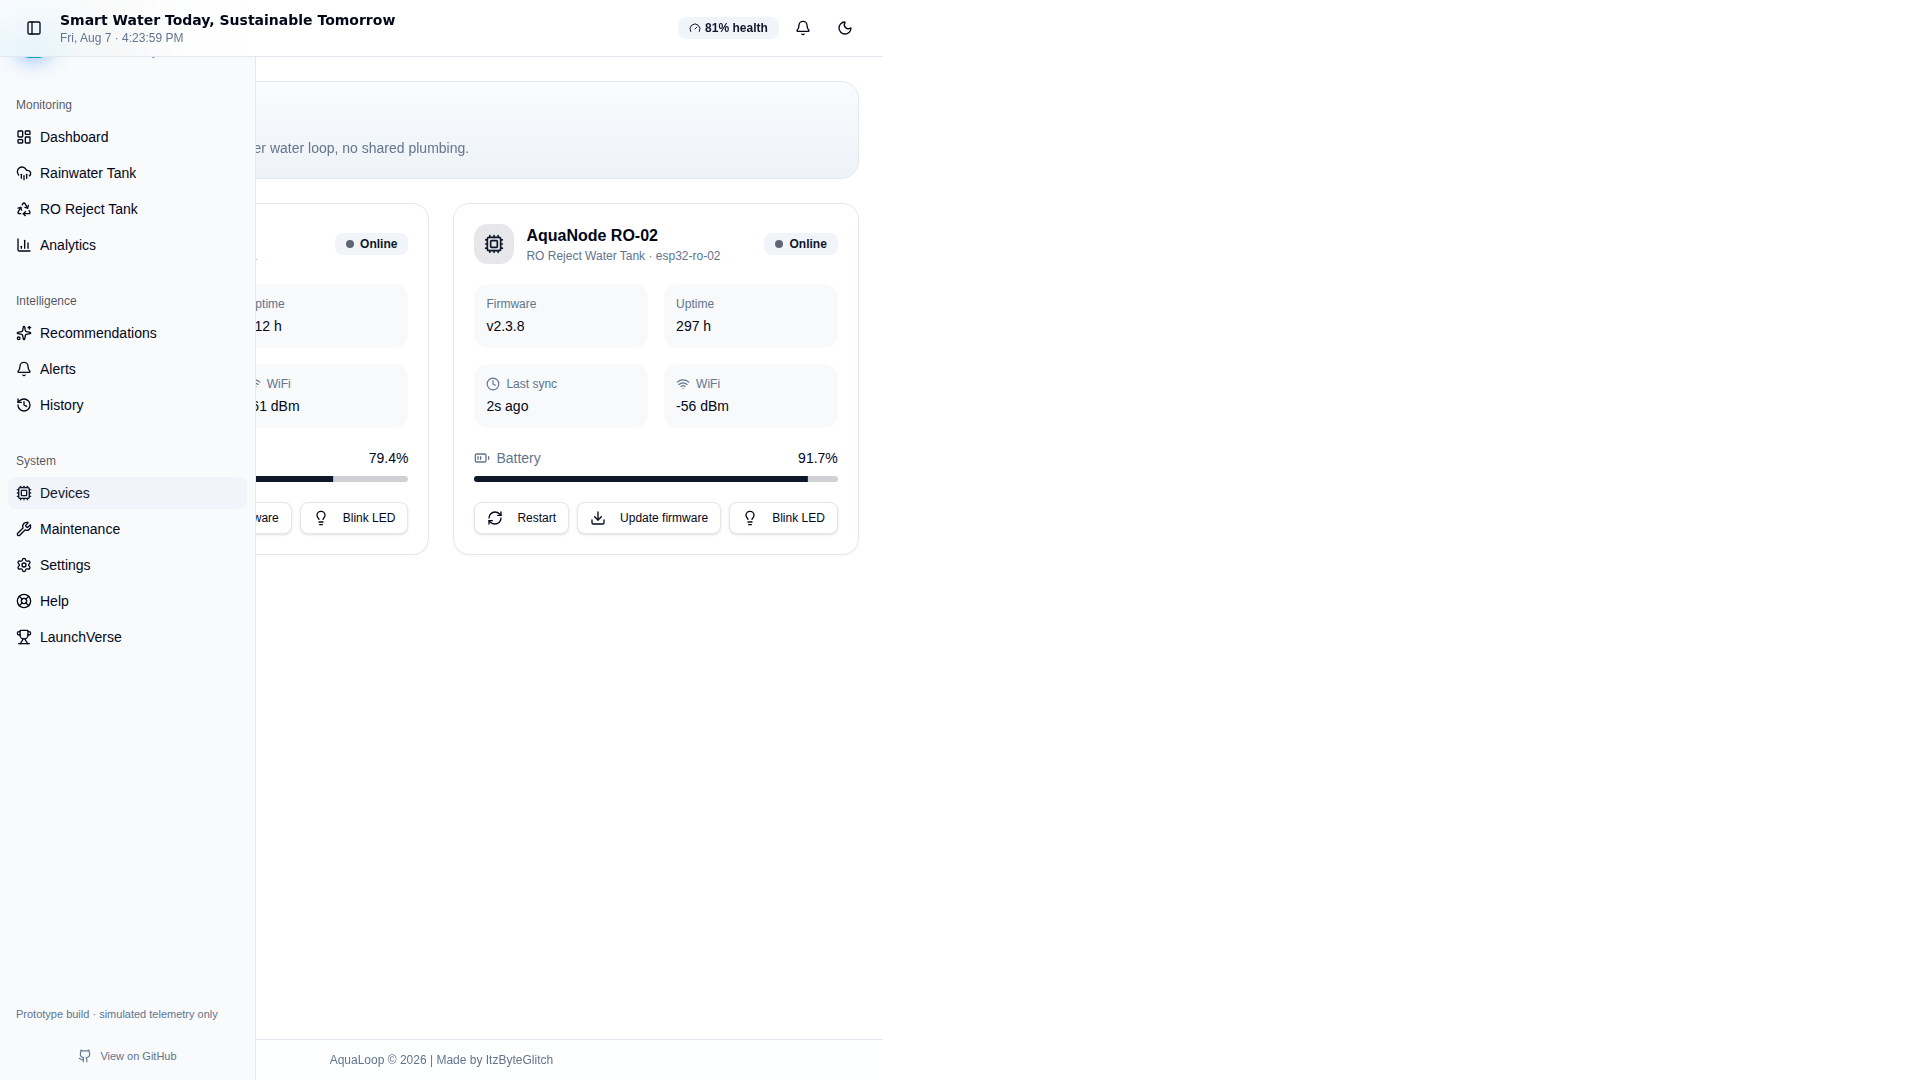
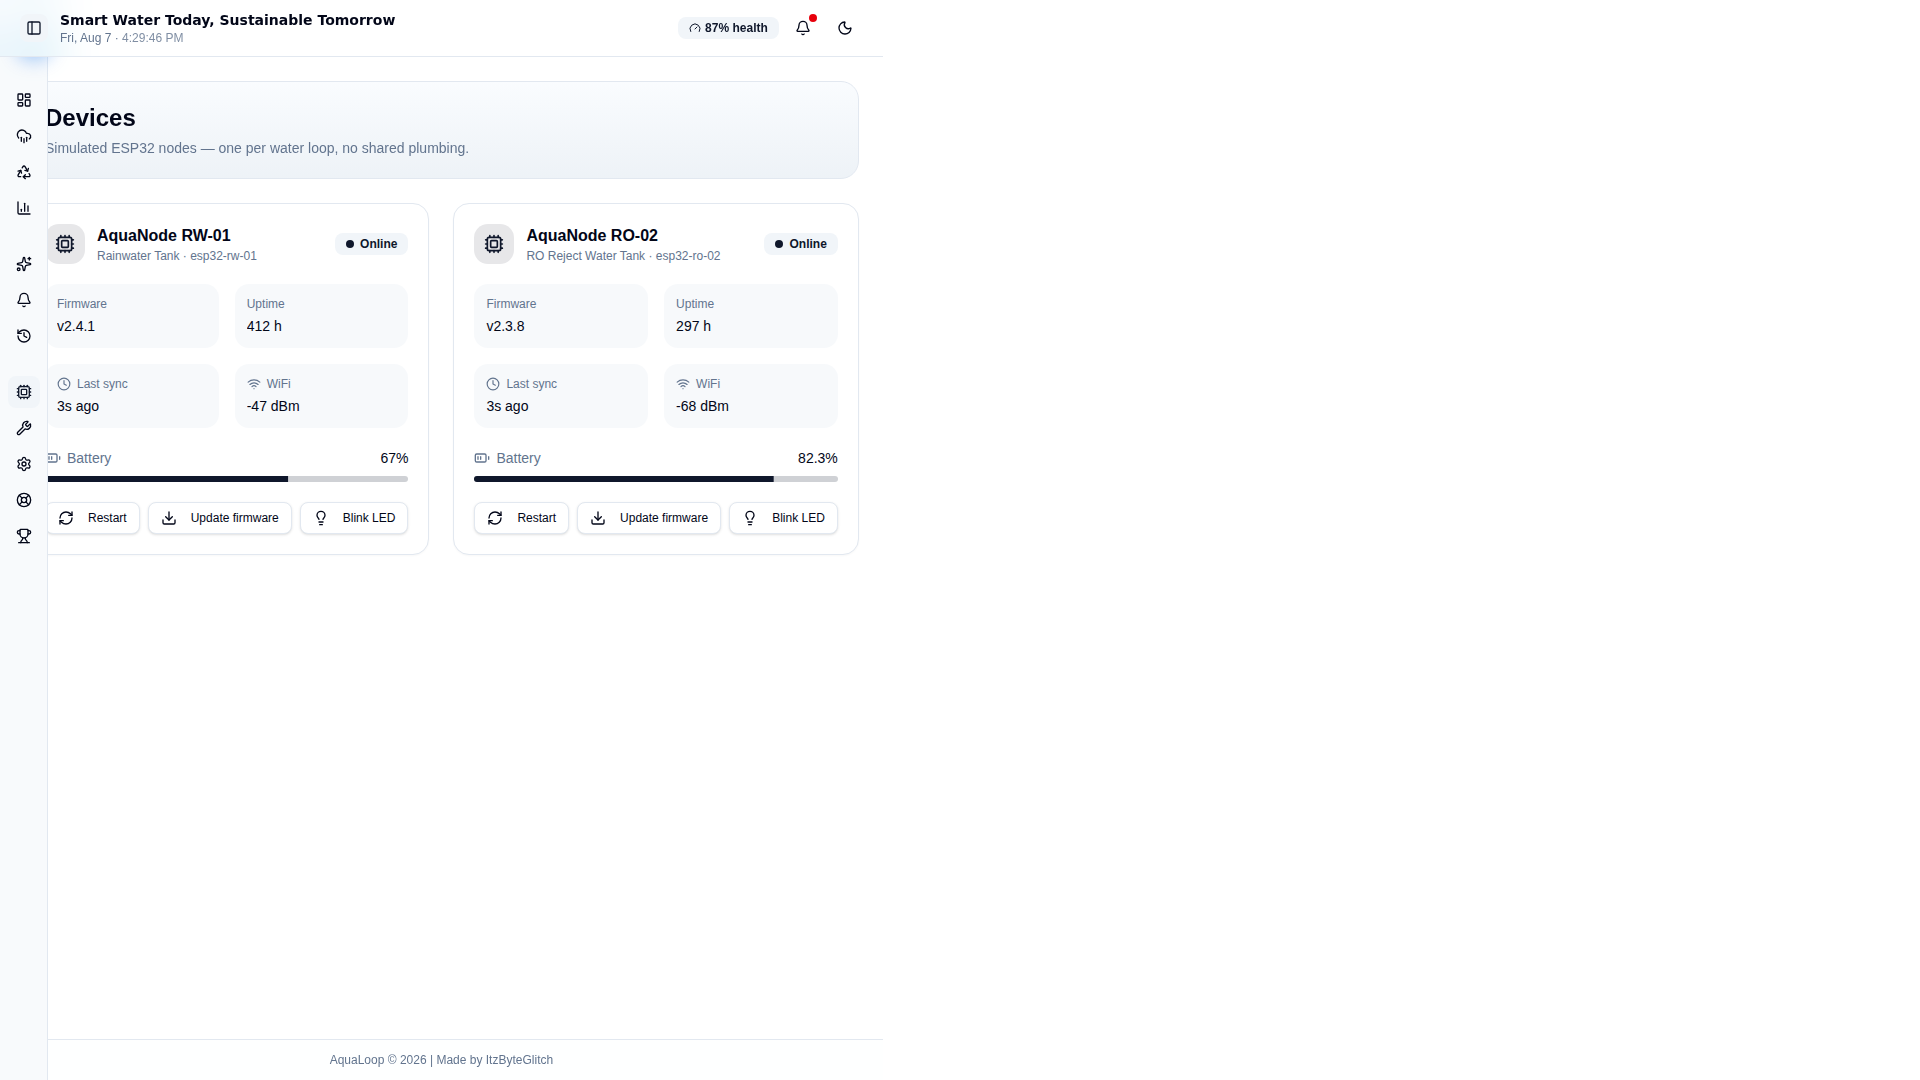
docs: update screenshots with collapsed sidebar, display line by line in README

diff --git a/README.md b/README.md
@@ -354,17 +354,29 @@ npm run format    # Prettier --write
 
 ## Screenshots
 
-| Dashboard | Rainwater Tank | RO Reject Tank |
-|-----------|----------------|----------------|
-| ![Dashboard](docs/dashboard.png) | ![Rainwater Tank](docs/rainwater.png) | ![RO Reject Tank](docs/ro-reject.png) |
+### Dashboard
+![Dashboard](docs/dashboard.png)
 
-| Analytics | Recommendations | Alerts |
-|-----------|-----------------|--------|
-| ![Analytics](docs/analytics.png) | ![Recommendations](docs/recommendations.png) | ![Alerts](docs/alerts.png) |
+### Rainwater Tank
+![Rainwater Tank](docs/rainwater.png)
 
-| Devices | LaunchVerse |
-|---------|-------------|
-| ![Devices](docs/devices.png) | ![LaunchVerse](docs/launchverse.png) |
+### RO Reject Tank
+![RO Reject Tank](docs/ro-reject.png)
+
+### Analytics
+![Analytics](docs/analytics.png)
+
+### Recommendations
+![Recommendations](docs/recommendations.png)
+
+### Alerts
+![Alerts](docs/alerts.png)
+
+### Devices
+![Devices](docs/devices.png)
+
+### LaunchVerse
+![LaunchVerse](docs/launchverse.png)
 
 ---
 
